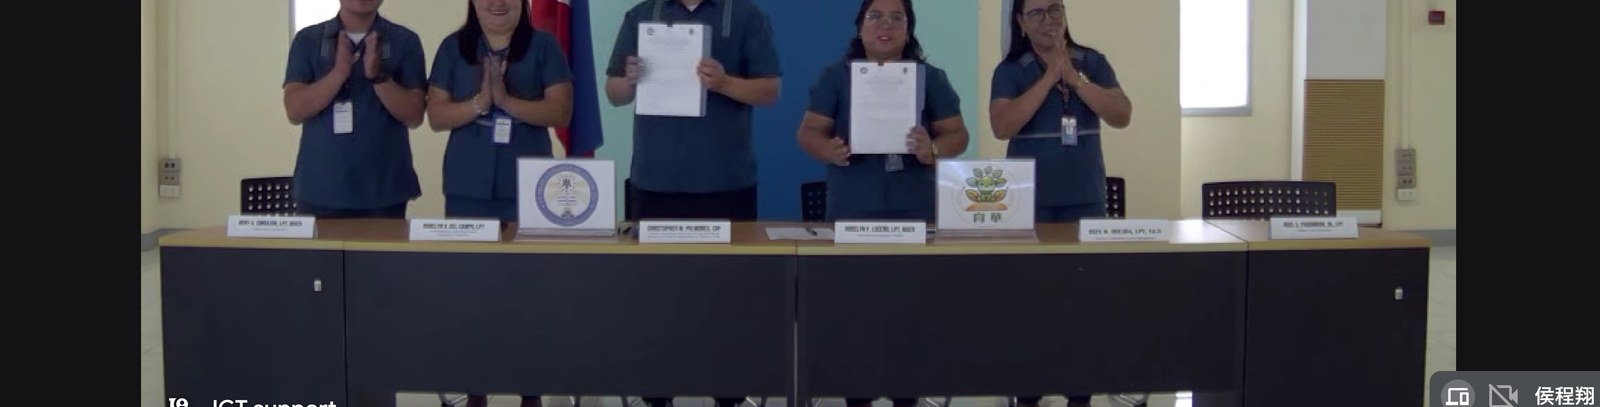
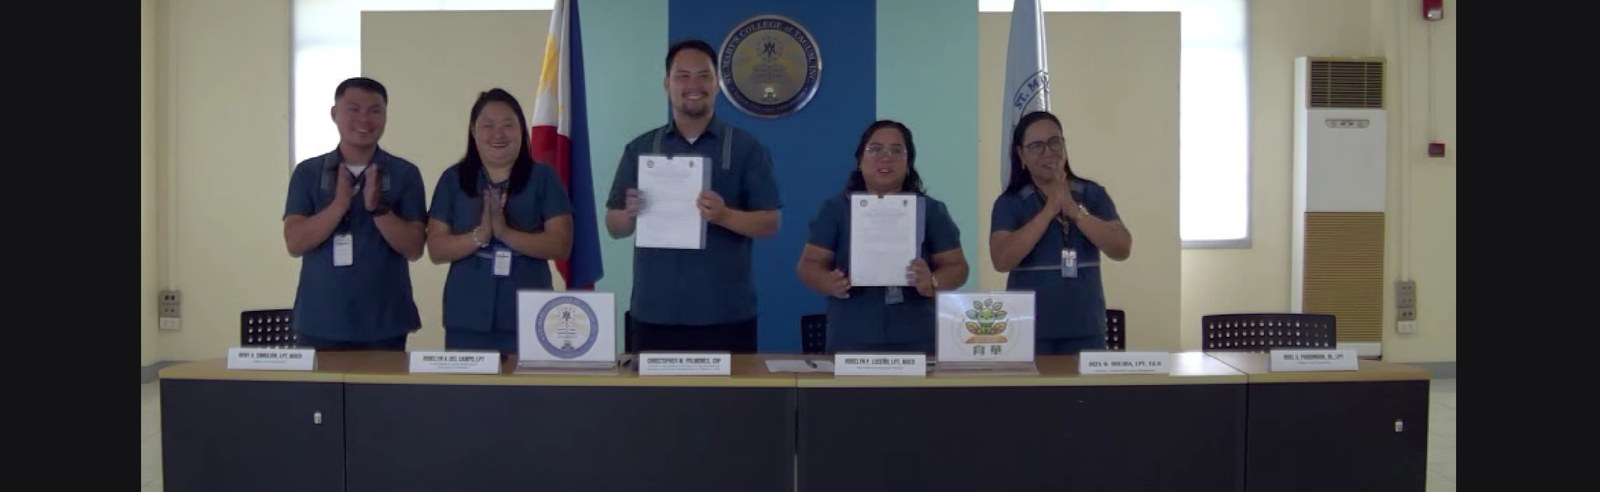
fix(yuhua/news): include full heads in MOU photo, remove Meet label
Cropped higher (y=820) to show all heads and lower (y=1860) to fully
remove the "ICT support" participant label. Adjusted object-position
to center 30% so cover focuses on upper body/heads.

diff --git a/schools/yuhua/news/index.html b/schools/yuhua/news/index.html
@@ -137,7 +137,7 @@
 
   .story__img{aspect-ratio:16/10;background:var(--sea-soft);overflow:hidden;position:relative;}
   .story.is-featured .story__img{aspect-ratio:16/7;height:auto;min-height:0;}
-  .story__img img{width:100%;height:100%;object-fit:cover;object-position:center 60%;}
+  .story__img img{width:100%;height:100%;object-fit:cover;object-position:center 30%;}
   .story__img--placeholder{
     background:linear-gradient(135deg, var(--sea-soft) 0%, var(--leaf-soft) 100%);
     display:flex;flex-direction:column;align-items:center;justify-content:center;text-align:center;
